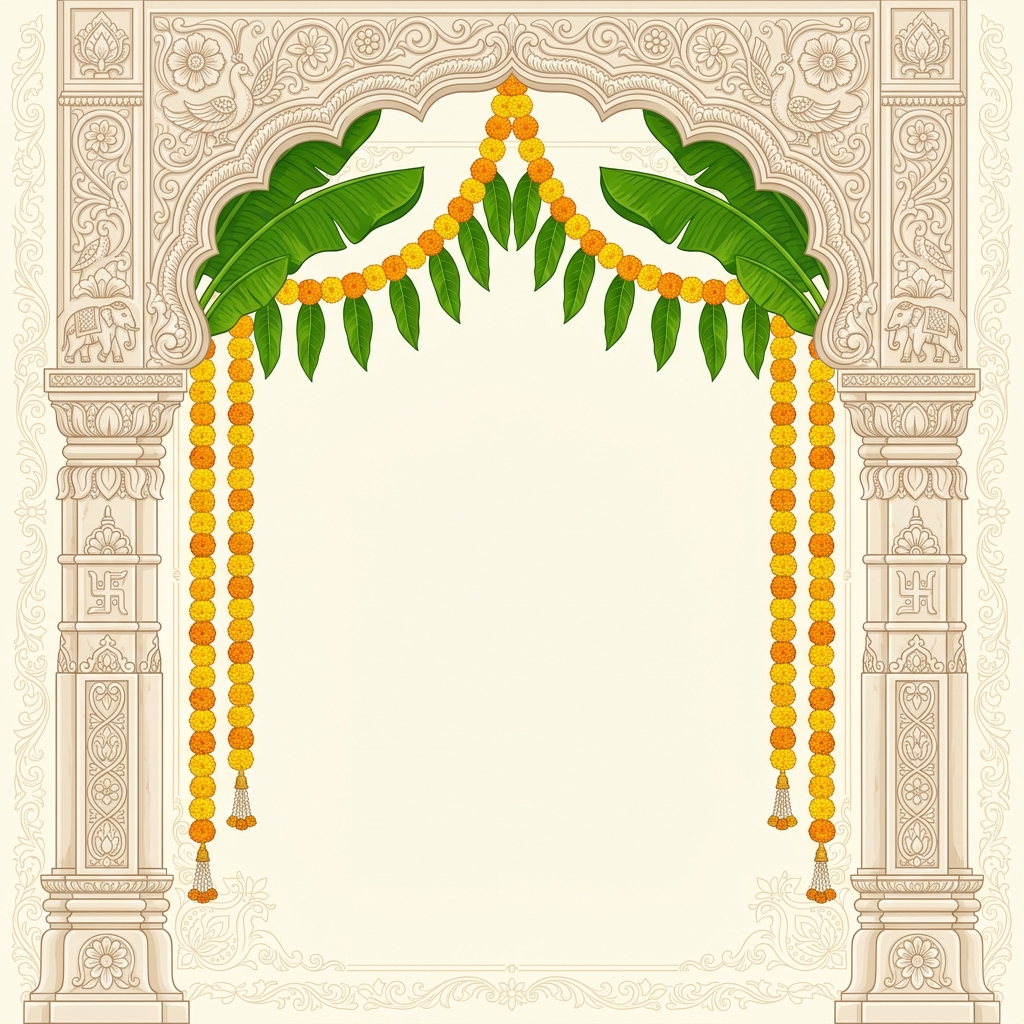
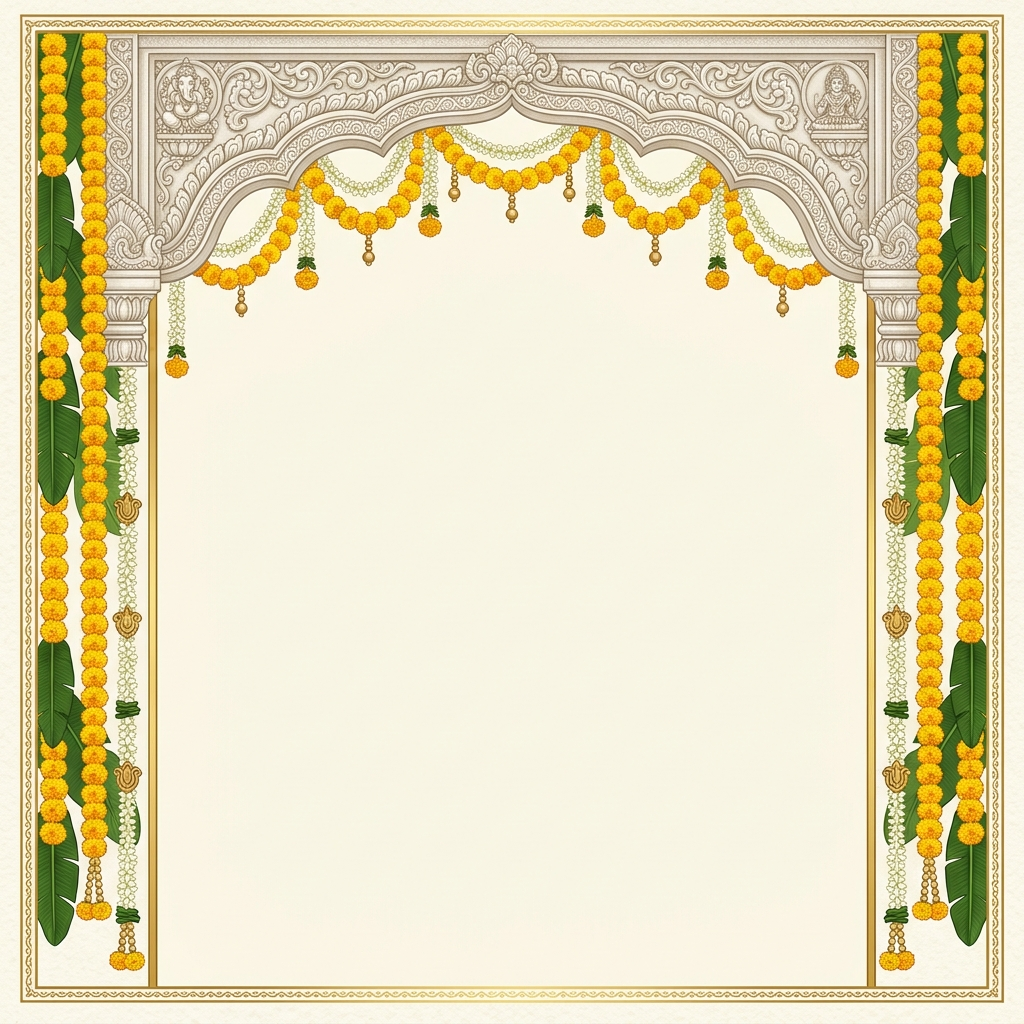
fix: replace arch background with a clean border frame that keeps the entire center 100% free of overlapping flowers or leaves

diff --git a/frontend/src/components/themes/wedding/layouts/SouthIndianLayout.tsx b/frontend/src/components/themes/wedding/layouts/SouthIndianLayout.tsx
@@ -52,7 +52,7 @@ export default function SouthIndianLayout({ content, website }: WeddingLayoutPro
         </div>
 
       {/* Main Content Content */}
-      <div className="relative z-10 max-w-md mx-auto text-center px-10 sm:px-14 mt-20 sm:mt-28">
+      <div className="relative z-10 max-w-md mx-auto text-center px-8 sm:px-12 mt-24 sm:mt-32">
         
         <p className="text-rose-900 font-bold mb-6 tracking-widest text-sm" style={{ fontFamily: "'Playfair Display', serif" }}>
           || ॐ गणपतये नमः ||
@@ -213,7 +213,7 @@ export default function SouthIndianLayout({ content, website }: WeddingLayoutPro
           <img src="/media/south_indian_arch.png" alt="Arch Decoration" className="w-full h-full object-cover object-top opacity-90 mix-blend-multiply" />
         </div>
 
-        <div className="relative z-10 text-center px-10 sm:px-14 py-10 mt-20 sm:mt-28 flex flex-col items-center justify-center w-full max-w-lg mx-auto">
+        <div className="relative z-10 text-center px-8 sm:px-12 py-10 mt-24 sm:mt-32 flex flex-col items-center justify-center w-full max-w-lg mx-auto">
           <p className="text-rose-900 font-bold mb-6 tracking-[0.2em] text-sm md:text-base animate-pulse" style={{ fontFamily: "'Playfair Display', serif" }}>
             || ॐ गणपतये नमः ||
           </p>
